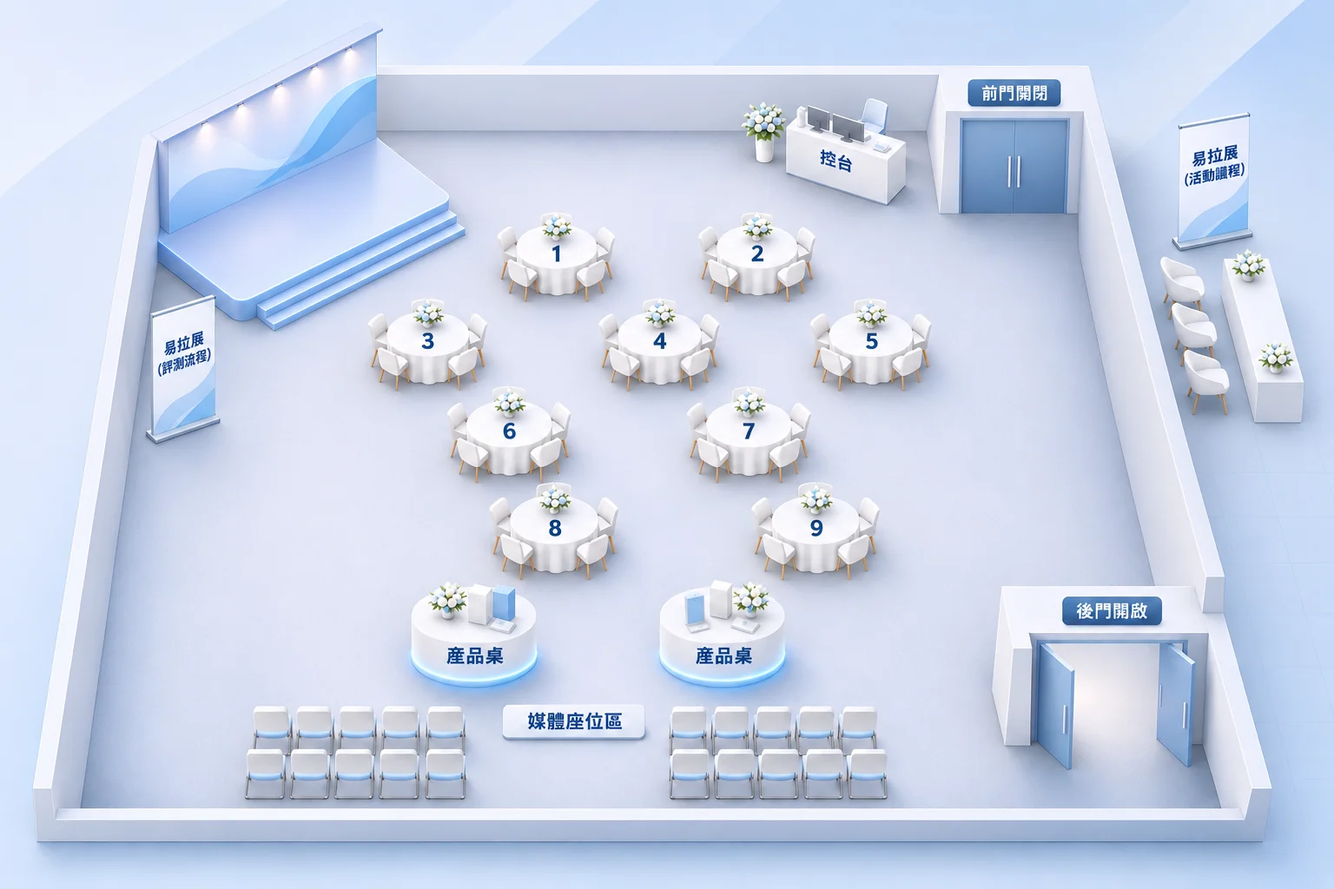
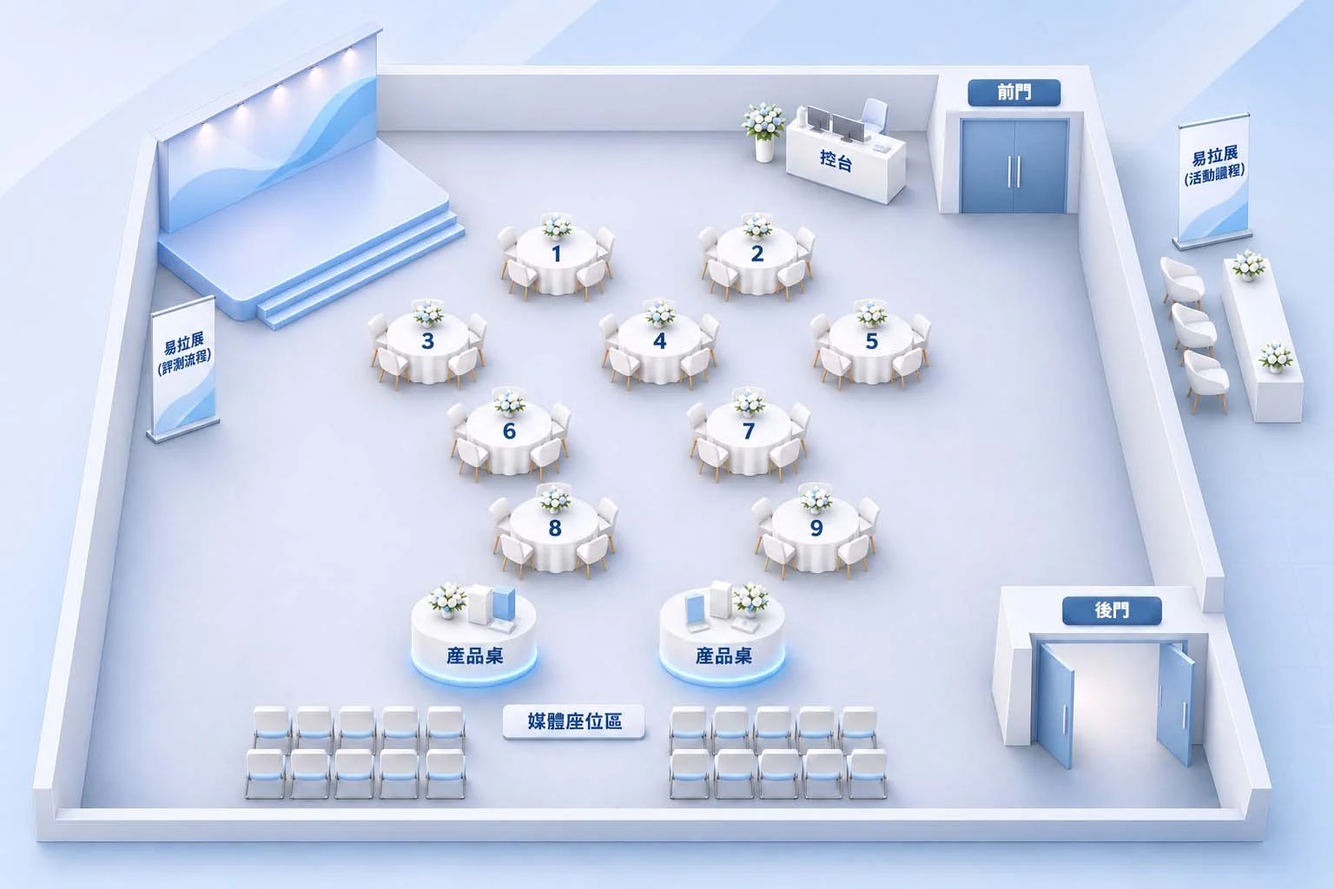
24：換上更新的會場示意圖
Claude-Session: https://claude.ai/code/session_01GjEy689vh6dg91TD7dTNVD

diff --git a/works/work-24-expo.html b/works/work-24-expo.html
@@ -52,7 +52,7 @@
     </div>
     <div class="cs-cards"><article class="cs-card" data-tone="lime"><h2 class="cs-card__title">What I made<small>我的設計</small></h2><p class="cs-card__text">以「專業守護，全家安心」作為核心視覺概念，透過影像合成將醫師雙手、家庭人物與透明防護球體結合，象徵專業醫療為民眾健康提供守護。整體運用淺藍色調、柔和光暈與環繞式線條，營造純淨、安心且具科技感的視覺氛圍，搭配醫療圖示與認證徽章，強化計畫的專業形象與視覺辨識度。</p><svg class="cs-card__deco" viewBox="0 0 128 128" aria-hidden="true"><polygon points="64.0,2.0 74.2,19.2 90.9,8.1 92.7,28.0 112.5,25.3 105.4,44.0 124.4,50.2 110.0,64.0 124.4,77.8 105.4,84.0 112.5,102.7 92.7,100.0 90.9,119.9 74.2,108.8 64.0,126.0 53.8,108.8 37.1,119.9 35.3,100.0 15.5,102.7 22.6,84.0 3.6,77.8 18.0,64.0 3.6,50.2 22.6,44.0 15.5,25.3 35.3,28.0 37.1,8.1 53.8,19.2"/></svg></article><article class="cs-card" data-tone="pink"><h2 class="cs-card__title">What happened next<small>後續成果</small></h2><p class="cs-card__text">將醫療專業、科學認證與家庭健康等抽象理念轉化為直觀的視覺意象，兼顧現場品牌曝光、活動主題傳遞與多方合作單位的識別需求，建立具專業度與親和力的活動形象。</p><svg class="cs-card__deco" viewBox="0 0 128 128" aria-hidden="true"><polygon points="64.0,2.0 74.2,19.2 90.9,8.1 92.7,28.0 112.5,25.3 105.4,44.0 124.4,50.2 110.0,64.0 124.4,77.8 105.4,84.0 112.5,102.7 92.7,100.0 90.9,119.9 74.2,108.8 64.0,126.0 53.8,108.8 37.1,119.9 35.3,100.0 15.5,102.7 22.6,84.0 3.6,77.8 18.0,64.0 3.6,50.2 22.6,44.0 15.5,25.3 35.3,28.0 37.1,8.1 53.8,19.2"/></svg></article></div>
     <div class="cs-gallery"></div>
-    <section class="cs-sec"><header class="cs-sec__head"><p class="eyebrow">Key visual</p><h2 class="cs-sec__title">Press Backdrop<small>記者會背板</small></h2><p class="cs-sec__lead">以醫師雙手、家庭人物與透明防護球體合成主視覺，傳達「專業守護，全家安心」。</p></header><figure class="bq-fig ex-hero"><button type="button" class="ex-img" data-lb="prhero" aria-label="放大檢視：記者會背板提案"><picture><source srcset="../public/works/work-24-expo/web-backdrop.webp" type="image/webp"><img src="../public/works/work-24-expo/web-backdrop.jpg" width="2400" height="1189" alt="記者會背板提案：醫師雙手捧著透明球體，球內是三代同堂的家庭" loading="lazy" decoding="async"></picture></button><figcaption>✦ 背板提案｜W515 × H255 cm</figcaption></figure></section><section class="cs-sec"><header class="cs-sec__head"><p class="eyebrow">Venue plan</p><h2 class="cs-sec__title">Guest Journey<small>現場動線</small></h2><p class="cs-sec__lead">照來賓從門外報到、入座、台前合照到產品區的順序，標出每件製作物在現場的位置。</p></header><figure class="ob-hot pl-hot"><div class="ob-hot__stage"><picture><source srcset="../public/works/work-24-expo/web-plan.webp" type="image/webp"><img src="../public/works/work-24-expo/web-plan.jpg" width="1536" height="1024" alt="記者會會場示意圖：左上舞台與背板，中間 9 張來賓圓桌，下方兩張產品桌與媒體座位區，右側為前後門、門外的易拉展與接待桌" loading="lazy" decoding="async"></picture><div class="ob-hs" style="--x:91%;--y:20%" data-pos="b r" data-tone="yellow"><button type="button" class="ob-hs__dot" aria-expanded="false" aria-describedby="prhs1"><span>1</span><span class="sr-only">易拉展：活動議程</span></button><div class="ob-hs__tip ex-tip" data-tone="yellow" id="prhs1" role="tooltip"><div class="ex-tip__imgs" style="--n:1"><button type="button" class="ex-tip__img" data-lb="prhs1" aria-label="放大檢視：易拉展：活動議程"><picture><source srcset="../public/works/work-24-expo/web-rollup-1.webp" type="image/webp"><img src="../public/works/work-24-expo/web-rollup-1.jpg" width="900" height="2001" alt="易拉展：活動議程" loading="lazy" decoding="async"></picture><span class="ex-tip__zoom" aria-hidden="true"></span></button></div><p class="eyebrow ob-hs__eb">Entrance</p><p class="ob-hs__t">易拉展：活動議程</p><p class="ob-hs__d">立在門外，來賓報到前就能先看到當天流程。</p><p class="ob-hs__s">入場</p></div></div><div class="ob-hs" style="--x:45.5%;--y:35%" data-pos="b" data-tone="cyan"><button type="button" class="ob-hs__dot" aria-expanded="false" aria-describedby="prhs2"><span>2</span><span class="sr-only">來賓桌卡</span></button><div class="ob-hs__tip ex-tip" data-tone="cyan" id="prhs2" role="tooltip"><div class="ex-tip__imgs" style="--n:2"><button type="button" class="ex-tip__img" data-lb="prhs2" aria-label="放大檢視：來賓桌卡"><picture><source srcset="../public/works/work-24-expo/web-guest.webp" type="image/webp"><img src="../public/works/work-24-expo/web-guest.jpg" width="1190" height="759" alt="來賓桌卡" loading="lazy" decoding="async"></picture><span class="ex-tip__zoom" aria-hidden="true"></span></button><button type="button" class="ex-tip__img" data-lb="prhs2" aria-label="放大檢視：現場照片：來賓桌卡"><picture><source srcset="../public/works/work-24-expo/web-site-2.webp?v=1123b" type="image/webp"><img src="../public/works/work-24-expo/web-site-2.jpg?v=1123b" width="1400" height="533" alt="現場照片：來賓桌卡" loading="lazy" decoding="async"></picture><span class="ex-tip__zoom" aria-hidden="true"></span></button></div><p class="eyebrow ob-hs__eb">Guest Table</p><p class="ob-hs__t">來賓桌卡</p><p class="ob-hs__d">9 張圓桌上的來賓名牌，延續主視覺的雙手與家庭意象。</p><p class="ob-hs__s">會場</p></div></div><div class="ob-hs" style="--x:20%;--y:12%" data-pos="b l" data-tone="cyan"><button type="button" class="ob-hs__dot" aria-expanded="false" aria-describedby="prhs3"><span>3</span><span class="sr-only">記者會背板</span></button><div class="ob-hs__tip ex-tip" data-tone="cyan" id="prhs3" role="tooltip"><div class="ex-tip__imgs" style="--n:2"><button type="button" class="ex-tip__img" data-lb="prhs3" aria-label="放大檢視：記者會背板提案"><picture><source srcset="../public/works/work-24-expo/web-backdrop.webp" type="image/webp"><img src="../public/works/work-24-expo/web-backdrop.jpg" width="2400" height="1189" alt="記者會背板提案" loading="lazy" decoding="async"></picture><span class="ex-tip__zoom" aria-hidden="true"></span></button><button type="button" class="ex-tip__img" data-lb="prhs3" aria-label="放大檢視：現場照片：講者站在背板前發表"><picture><source srcset="../public/works/work-24-expo/web-site-1.webp?v=1123b" type="image/webp"><img src="../public/works/work-24-expo/web-site-1.jpg?v=1123b" width="1400" height="1084" alt="現場照片：講者站在背板前發表" loading="lazy" decoding="async"></picture><span class="ex-tip__zoom" aria-hidden="true"></span></button></div><p class="eyebrow ob-hs__eb">Backdrop</p><p class="ob-hs__t">記者會背板</p><p class="ob-hs__d">以「專業守護，全家安心」為主視覺的背板提案。</p><p class="ob-hs__s">會場｜提案版｜W515 × H255 cm</p></div></div><div class="ob-hs" style="--x:28%;--y:29%" data-pos="b" data-tone="pink"><button type="button" class="ob-hs__dot" aria-expanded="false" aria-describedby="prhs4"><span>4</span><span class="sr-only">拍照用手舉牌</span></button><div class="ob-hs__tip ex-tip" data-tone="pink" id="prhs4" role="tooltip"><div class="ex-tip__imgs" style="--n:3"><button type="button" class="ex-tip__img" data-lb="prhs4" aria-label="放大檢視：手舉牌：醫師專業推薦指標"><picture><source srcset="../public/works/work-24-expo/web-sign-1.webp" type="image/webp"><img src="../public/works/work-24-expo/web-sign-1.png" width="1000" height="572" alt="手舉牌：醫師專業推薦指標" loading="lazy" decoding="async"></picture><span class="ex-tip__zoom" aria-hidden="true"></span></button><button type="button" class="ex-tip__img" data-lb="prhs4" aria-label="放大檢視：手舉牌：醫師推薦健康關鍵"><picture><source srcset="../public/works/work-24-expo/web-sign-11.webp" type="image/webp"><img src="../public/works/work-24-expo/web-sign-11.png" width="1000" height="464" alt="手舉牌：醫師推薦健康關鍵" loading="lazy" decoding="async"></picture><span class="ex-tip__zoom" aria-hidden="true"></span></button><button type="button" class="ex-tip__img" data-lb="prhs4" aria-label="放大檢視：現場照片：台前手舉牌大合照"><picture><source srcset="../public/works/work-24-expo/web-site-4.webp?v=1123b" type="image/webp"><img src="../public/works/work-24-expo/web-site-4.jpg?v=1123b" width="2400" height="543" alt="現場照片：台前手舉牌大合照" loading="lazy" decoding="async"></picture><span class="ex-tip__zoom" aria-hidden="true"></span></button></div><p class="eyebrow ob-hs__eb">Photo Session</p><p class="ob-hs__t">拍照用手舉牌</p><p class="ob-hs__d">台前大合照時，來賓手舉的造型牌，共 11 款。</p><p class="ob-hs__s">台前合照｜11 款</p></div></div><div class="ob-hs" style="--x:35.5%;--y:66%" data-pos="t" data-tone="lime"><button type="button" class="ob-hs__dot" aria-expanded="false" aria-describedby="prhs5"><span>5</span><span class="sr-only">產品桌：桌卡＋三折 DM</span></button><div class="ob-hs__tip ex-tip" data-tone="lime" id="prhs5" role="tooltip"><div class="ex-tip__imgs" style="--n:4"><button type="button" class="ex-tip__img" data-lb="prhs5" aria-label="放大檢視：產品介紹桌卡 1"><picture><source srcset="../public/works/work-24-expo/web-tcard-1.webp" type="image/webp"><img src="../public/works/work-24-expo/web-tcard-1.jpg" width="900" height="1268" alt="產品介紹桌卡 1" loading="lazy" decoding="async"></picture><span class="ex-tip__zoom" aria-hidden="true"></span></button><button type="button" class="ex-tip__img" data-lb="prhs5" aria-label="放大檢視：三折 DM 正面"><picture><source srcset="../public/works/work-24-expo/web-dm-1.webp" type="image/webp"><img src="../public/works/work-24-expo/web-dm-1.jpg" width="2400" height="763" alt="三折 DM 正面" loading="lazy" decoding="async"></picture><span class="ex-tip__zoom" aria-hidden="true"></span></button><button type="button" class="ex-tip__img" data-lb="prhs5" aria-label="放大檢視：三折 DM 背面"><picture><source srcset="../public/works/work-24-expo/web-dm-2.webp" type="image/webp"><img src="../public/works/work-24-expo/web-dm-2.jpg" width="2400" height="765" alt="三折 DM 背面" loading="lazy" decoding="async"></picture><span class="ex-tip__zoom" aria-hidden="true"></span></button><button type="button" class="ex-tip__img" data-lb="prhs5" aria-label="放大檢視：現場照片：產品桌上的桌卡與 DM"><picture><source srcset="../public/works/work-24-expo/web-site-8.webp?v=1123b" type="image/webp"><img src="../public/works/work-24-expo/web-site-8.jpg?v=1123b" width="1400" height="933" alt="現場照片：產品桌上的桌卡與 DM" loading="lazy" decoding="async"></picture><span class="ex-tip__zoom" aria-hidden="true"></span></button></div><p class="eyebrow ob-hs__eb">Product Table</p><p class="ob-hs__t">產品桌：桌卡＋三折 DM</p><p class="ob-hs__d">產品桌上的長者六力系列桌卡，一款產品一張；三折 DM 也放在這裡，讓來賓與媒體帶走。</p><p class="ob-hs__s">產品區｜桌卡 5 款・三折頁</p></div></div><div class="ob-hs" style="--x:14%;--y:41%" data-pos="b l" data-tone="lime"><button type="button" class="ob-hs__dot" aria-expanded="false" aria-describedby="prhs6"><span>6</span><span class="sr-only">易拉展：評測流程</span></button><div class="ob-hs__tip ex-tip" data-tone="lime" id="prhs6" role="tooltip"><div class="ex-tip__imgs" style="--n:2"><button type="button" class="ex-tip__img" data-lb="prhs6" aria-label="放大檢視：易拉展：評測流程"><picture><source srcset="../public/works/work-24-expo/web-rollup-2.webp" type="image/webp"><img src="../public/works/work-24-expo/web-rollup-2.jpg" width="900" height="1999" alt="易拉展：評測流程" loading="lazy" decoding="async"></picture><span class="ex-tip__zoom" aria-hidden="true"></span></button><button type="button" class="ex-tip__img" data-lb="prhs6" aria-label="放大檢視：現場照片：主持人與評測流程易拉展"><picture><source srcset="../public/works/work-24-expo/web-site-7.webp?v=1123b" type="image/webp"><img src="../public/works/work-24-expo/web-site-7.jpg?v=1123b" width="1400" height="1086" alt="現場照片：主持人與評測流程易拉展" loading="lazy" decoding="async"></picture><span class="ex-tip__zoom" aria-hidden="true"></span></button></div><p class="eyebrow ob-hs__eb">Roll-up</p><p class="ob-hs__t">易拉展：評測流程</p><p class="ob-hs__d">放在產品區旁，說明醫療專家品質評測的流程。</p><p class="ob-hs__s">產品區</p></div></div></div><figcaption><ul class="pl-legend"><li data-tone="yellow"><span></span>入場</li><li data-tone="cyan"><span></span>會場</li><li data-tone="pink"><span></span>台前合照</li><li data-tone="lime"><span></span>產品區</li></ul></figcaption></figure></section><section class="cs-sec"><header class="cs-sec__head"><p class="eyebrow">On site</p><h2 class="cs-sec__title">Press Day<small>現場紀錄</small></h2><p class="cs-sec__lead">記者會當天：背板前的發表、手舉牌大合照、桌卡與 DM，以及媒體採訪。</p></header><figure class="bq-fig ex-hero pr-collage"><button type="button" class="ex-img" data-lb="prsite" aria-label="放大檢視：記者會現場紀錄"><picture><source srcset="../public/works/work-24-expo/web-collage.webp?v=1123b" type="image/webp"><img src="../public/works/work-24-expo/web-collage.jpg?v=1123b" width="1800" height="1818" alt="記者會現場照片拼貼：講者發表、來賓桌卡、DM、手舉牌大合照、產品桌卡、媒體採訪與評測流程易拉展" loading="lazy" decoding="async"></picture></button><figcaption>✦ 記者會現場紀錄</figcaption></figure></section>
+    <section class="cs-sec"><header class="cs-sec__head"><p class="eyebrow">Key visual</p><h2 class="cs-sec__title">Press Backdrop<small>記者會背板</small></h2><p class="cs-sec__lead">以醫師雙手、家庭人物與透明防護球體合成主視覺，傳達「專業守護，全家安心」。</p></header><figure class="bq-fig ex-hero"><button type="button" class="ex-img" data-lb="prhero" aria-label="放大檢視：記者會背板提案"><picture><source srcset="../public/works/work-24-expo/web-backdrop.webp" type="image/webp"><img src="../public/works/work-24-expo/web-backdrop.jpg" width="2400" height="1189" alt="記者會背板提案：醫師雙手捧著透明球體，球內是三代同堂的家庭" loading="lazy" decoding="async"></picture></button><figcaption>✦ 背板提案｜W515 × H255 cm</figcaption></figure></section><section class="cs-sec"><header class="cs-sec__head"><p class="eyebrow">Venue plan</p><h2 class="cs-sec__title">Guest Journey<small>現場動線</small></h2><p class="cs-sec__lead">照來賓從門外報到、入座、台前合照到產品區的順序，標出每件製作物在現場的位置。</p></header><figure class="ob-hot pl-hot"><div class="ob-hot__stage"><picture><source srcset="../public/works/work-24-expo/web-plan.webp?v=1123c" type="image/webp"><img src="../public/works/work-24-expo/web-plan.jpg?v=1123c" width="1536" height="1024" alt="記者會會場示意圖：左上舞台與背板，中間 9 張來賓圓桌，下方兩張產品桌與媒體座位區，右側為前後門、門外的易拉展與接待桌" loading="lazy" decoding="async"></picture><div class="ob-hs" style="--x:91%;--y:20%" data-pos="b r" data-tone="yellow"><button type="button" class="ob-hs__dot" aria-expanded="false" aria-describedby="prhs1"><span>1</span><span class="sr-only">易拉展：活動議程</span></button><div class="ob-hs__tip ex-tip" data-tone="yellow" id="prhs1" role="tooltip"><div class="ex-tip__imgs" style="--n:1"><button type="button" class="ex-tip__img" data-lb="prhs1" aria-label="放大檢視：易拉展：活動議程"><picture><source srcset="../public/works/work-24-expo/web-rollup-1.webp" type="image/webp"><img src="../public/works/work-24-expo/web-rollup-1.jpg" width="900" height="2001" alt="易拉展：活動議程" loading="lazy" decoding="async"></picture><span class="ex-tip__zoom" aria-hidden="true"></span></button></div><p class="eyebrow ob-hs__eb">Entrance</p><p class="ob-hs__t">易拉展：活動議程</p><p class="ob-hs__d">立在門外，來賓報到前就能先看到當天流程。</p><p class="ob-hs__s">入場</p></div></div><div class="ob-hs" style="--x:45.5%;--y:35%" data-pos="b" data-tone="cyan"><button type="button" class="ob-hs__dot" aria-expanded="false" aria-describedby="prhs2"><span>2</span><span class="sr-only">來賓桌卡</span></button><div class="ob-hs__tip ex-tip" data-tone="cyan" id="prhs2" role="tooltip"><div class="ex-tip__imgs" style="--n:2"><button type="button" class="ex-tip__img" data-lb="prhs2" aria-label="放大檢視：來賓桌卡"><picture><source srcset="../public/works/work-24-expo/web-guest.webp" type="image/webp"><img src="../public/works/work-24-expo/web-guest.jpg" width="1190" height="759" alt="來賓桌卡" loading="lazy" decoding="async"></picture><span class="ex-tip__zoom" aria-hidden="true"></span></button><button type="button" class="ex-tip__img" data-lb="prhs2" aria-label="放大檢視：現場照片：來賓桌卡"><picture><source srcset="../public/works/work-24-expo/web-site-2.webp?v=1123b" type="image/webp"><img src="../public/works/work-24-expo/web-site-2.jpg?v=1123b" width="1400" height="533" alt="現場照片：來賓桌卡" loading="lazy" decoding="async"></picture><span class="ex-tip__zoom" aria-hidden="true"></span></button></div><p class="eyebrow ob-hs__eb">Guest Table</p><p class="ob-hs__t">來賓桌卡</p><p class="ob-hs__d">9 張圓桌上的來賓名牌，延續主視覺的雙手與家庭意象。</p><p class="ob-hs__s">會場</p></div></div><div class="ob-hs" style="--x:20%;--y:12%" data-pos="b l" data-tone="cyan"><button type="button" class="ob-hs__dot" aria-expanded="false" aria-describedby="prhs3"><span>3</span><span class="sr-only">記者會背板</span></button><div class="ob-hs__tip ex-tip" data-tone="cyan" id="prhs3" role="tooltip"><div class="ex-tip__imgs" style="--n:2"><button type="button" class="ex-tip__img" data-lb="prhs3" aria-label="放大檢視：記者會背板提案"><picture><source srcset="../public/works/work-24-expo/web-backdrop.webp" type="image/webp"><img src="../public/works/work-24-expo/web-backdrop.jpg" width="2400" height="1189" alt="記者會背板提案" loading="lazy" decoding="async"></picture><span class="ex-tip__zoom" aria-hidden="true"></span></button><button type="button" class="ex-tip__img" data-lb="prhs3" aria-label="放大檢視：現場照片：講者站在背板前發表"><picture><source srcset="../public/works/work-24-expo/web-site-1.webp?v=1123b" type="image/webp"><img src="../public/works/work-24-expo/web-site-1.jpg?v=1123b" width="1400" height="1084" alt="現場照片：講者站在背板前發表" loading="lazy" decoding="async"></picture><span class="ex-tip__zoom" aria-hidden="true"></span></button></div><p class="eyebrow ob-hs__eb">Backdrop</p><p class="ob-hs__t">記者會背板</p><p class="ob-hs__d">以「專業守護，全家安心」為主視覺的背板提案。</p><p class="ob-hs__s">會場｜提案版｜W515 × H255 cm</p></div></div><div class="ob-hs" style="--x:28%;--y:29%" data-pos="b" data-tone="pink"><button type="button" class="ob-hs__dot" aria-expanded="false" aria-describedby="prhs4"><span>4</span><span class="sr-only">拍照用手舉牌</span></button><div class="ob-hs__tip ex-tip" data-tone="pink" id="prhs4" role="tooltip"><div class="ex-tip__imgs" style="--n:3"><button type="button" class="ex-tip__img" data-lb="prhs4" aria-label="放大檢視：手舉牌：醫師專業推薦指標"><picture><source srcset="../public/works/work-24-expo/web-sign-1.webp" type="image/webp"><img src="../public/works/work-24-expo/web-sign-1.png" width="1000" height="572" alt="手舉牌：醫師專業推薦指標" loading="lazy" decoding="async"></picture><span class="ex-tip__zoom" aria-hidden="true"></span></button><button type="button" class="ex-tip__img" data-lb="prhs4" aria-label="放大檢視：手舉牌：醫師推薦健康關鍵"><picture><source srcset="../public/works/work-24-expo/web-sign-11.webp" type="image/webp"><img src="../public/works/work-24-expo/web-sign-11.png" width="1000" height="464" alt="手舉牌：醫師推薦健康關鍵" loading="lazy" decoding="async"></picture><span class="ex-tip__zoom" aria-hidden="true"></span></button><button type="button" class="ex-tip__img" data-lb="prhs4" aria-label="放大檢視：現場照片：台前手舉牌大合照"><picture><source srcset="../public/works/work-24-expo/web-site-4.webp?v=1123b" type="image/webp"><img src="../public/works/work-24-expo/web-site-4.jpg?v=1123b" width="2400" height="543" alt="現場照片：台前手舉牌大合照" loading="lazy" decoding="async"></picture><span class="ex-tip__zoom" aria-hidden="true"></span></button></div><p class="eyebrow ob-hs__eb">Photo Session</p><p class="ob-hs__t">拍照用手舉牌</p><p class="ob-hs__d">台前大合照時，來賓手舉的造型牌，共 11 款。</p><p class="ob-hs__s">台前合照｜11 款</p></div></div><div class="ob-hs" style="--x:35.5%;--y:66%" data-pos="t" data-tone="lime"><button type="button" class="ob-hs__dot" aria-expanded="false" aria-describedby="prhs5"><span>5</span><span class="sr-only">產品桌：桌卡＋三折 DM</span></button><div class="ob-hs__tip ex-tip" data-tone="lime" id="prhs5" role="tooltip"><div class="ex-tip__imgs" style="--n:4"><button type="button" class="ex-tip__img" data-lb="prhs5" aria-label="放大檢視：產品介紹桌卡 1"><picture><source srcset="../public/works/work-24-expo/web-tcard-1.webp" type="image/webp"><img src="../public/works/work-24-expo/web-tcard-1.jpg" width="900" height="1268" alt="產品介紹桌卡 1" loading="lazy" decoding="async"></picture><span class="ex-tip__zoom" aria-hidden="true"></span></button><button type="button" class="ex-tip__img" data-lb="prhs5" aria-label="放大檢視：三折 DM 正面"><picture><source srcset="../public/works/work-24-expo/web-dm-1.webp" type="image/webp"><img src="../public/works/work-24-expo/web-dm-1.jpg" width="2400" height="763" alt="三折 DM 正面" loading="lazy" decoding="async"></picture><span class="ex-tip__zoom" aria-hidden="true"></span></button><button type="button" class="ex-tip__img" data-lb="prhs5" aria-label="放大檢視：三折 DM 背面"><picture><source srcset="../public/works/work-24-expo/web-dm-2.webp" type="image/webp"><img src="../public/works/work-24-expo/web-dm-2.jpg" width="2400" height="765" alt="三折 DM 背面" loading="lazy" decoding="async"></picture><span class="ex-tip__zoom" aria-hidden="true"></span></button><button type="button" class="ex-tip__img" data-lb="prhs5" aria-label="放大檢視：現場照片：產品桌上的桌卡與 DM"><picture><source srcset="../public/works/work-24-expo/web-site-8.webp?v=1123b" type="image/webp"><img src="../public/works/work-24-expo/web-site-8.jpg?v=1123b" width="1400" height="933" alt="現場照片：產品桌上的桌卡與 DM" loading="lazy" decoding="async"></picture><span class="ex-tip__zoom" aria-hidden="true"></span></button></div><p class="eyebrow ob-hs__eb">Product Table</p><p class="ob-hs__t">產品桌：桌卡＋三折 DM</p><p class="ob-hs__d">產品桌上的長者六力系列桌卡，一款產品一張；三折 DM 也放在這裡，讓來賓與媒體帶走。</p><p class="ob-hs__s">產品區｜桌卡 5 款・三折頁</p></div></div><div class="ob-hs" style="--x:14%;--y:41%" data-pos="b l" data-tone="lime"><button type="button" class="ob-hs__dot" aria-expanded="false" aria-describedby="prhs6"><span>6</span><span class="sr-only">易拉展：評測流程</span></button><div class="ob-hs__tip ex-tip" data-tone="lime" id="prhs6" role="tooltip"><div class="ex-tip__imgs" style="--n:2"><button type="button" class="ex-tip__img" data-lb="prhs6" aria-label="放大檢視：易拉展：評測流程"><picture><source srcset="../public/works/work-24-expo/web-rollup-2.webp" type="image/webp"><img src="../public/works/work-24-expo/web-rollup-2.jpg" width="900" height="1999" alt="易拉展：評測流程" loading="lazy" decoding="async"></picture><span class="ex-tip__zoom" aria-hidden="true"></span></button><button type="button" class="ex-tip__img" data-lb="prhs6" aria-label="放大檢視：現場照片：主持人與評測流程易拉展"><picture><source srcset="../public/works/work-24-expo/web-site-7.webp?v=1123b" type="image/webp"><img src="../public/works/work-24-expo/web-site-7.jpg?v=1123b" width="1400" height="1086" alt="現場照片：主持人與評測流程易拉展" loading="lazy" decoding="async"></picture><span class="ex-tip__zoom" aria-hidden="true"></span></button></div><p class="eyebrow ob-hs__eb">Roll-up</p><p class="ob-hs__t">易拉展：評測流程</p><p class="ob-hs__d">放在產品區旁，說明醫療專家品質評測的流程。</p><p class="ob-hs__s">產品區</p></div></div></div><figcaption><ul class="pl-legend"><li data-tone="yellow"><span></span>入場</li><li data-tone="cyan"><span></span>會場</li><li data-tone="pink"><span></span>台前合照</li><li data-tone="lime"><span></span>產品區</li></ul></figcaption></figure></section><section class="cs-sec"><header class="cs-sec__head"><p class="eyebrow">On site</p><h2 class="cs-sec__title">Press Day<small>現場紀錄</small></h2><p class="cs-sec__lead">記者會當天：背板前的發表、手舉牌大合照、桌卡與 DM，以及媒體採訪。</p></header><figure class="bq-fig ex-hero pr-collage"><button type="button" class="ex-img" data-lb="prsite" aria-label="放大檢視：記者會現場紀錄"><picture><source srcset="../public/works/work-24-expo/web-collage.webp?v=1123b" type="image/webp"><img src="../public/works/work-24-expo/web-collage.jpg?v=1123b" width="1800" height="1818" alt="記者會現場照片拼貼：講者發表、來賓桌卡、DM、手舉牌大合照、產品桌卡、媒體採訪與評測流程易拉展" loading="lazy" decoding="async"></picture></button><figcaption>✦ 記者會現場紀錄</figcaption></figure></section>
   </div>
 </section>
 
